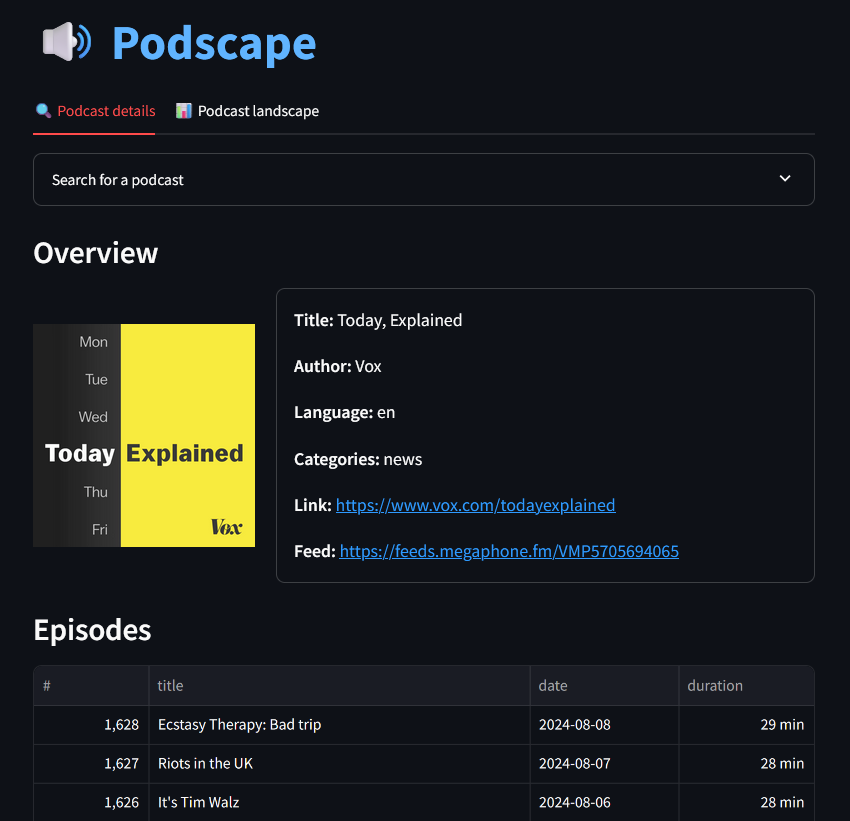
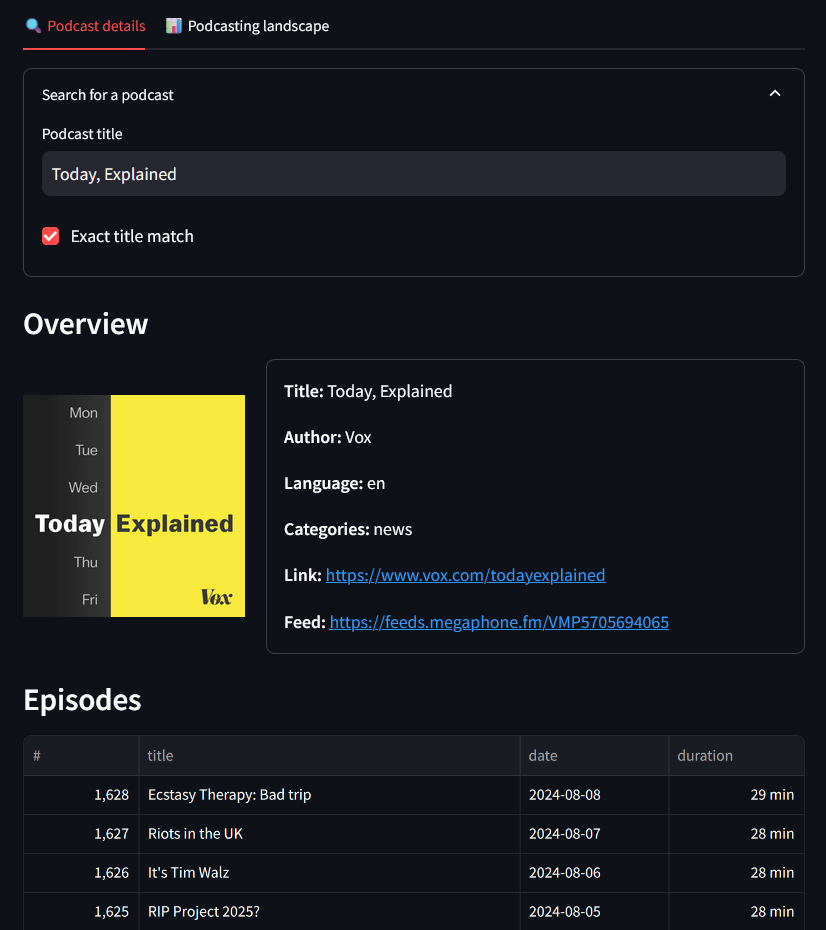
Fix verbatim bis

diff --git a/podscape/app.py b/podscape/app.py
@@ -30,7 +30,7 @@ sqlite_connector = SqliteConnector(db_file_path)
 st.title(":loud_sound: :blue[Podscape]")
 
 # Body
-details_tab, landscape_tab = st.tabs([":mag: Podcast details", ":bar_chart: Podcast landscape"])
+details_tab, landscape_tab = st.tabs([":mag: Podcast details", ":bar_chart: Podcasting landscape"])
 
 ## Podcast details tab
 with details_tab:
@@ -98,7 +98,7 @@ with details_tab:
         },
     )
 
-## Podcast landscape tab
+## Podcasting landscape tab
 with landscape_tab:
     ### Podcast creations
     st.subheader("Podcast creations")
